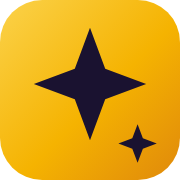
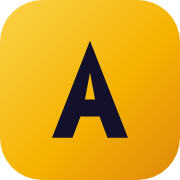
Serious monogram mark, and a bigger hero video
The spark read as "AI product" rather than a credible business. Replace it
with an outlined "A" monogram across all five pages — a hairline gold rule
on dark reads as a firm where a solid gold tile reads as an app icon. The
favicon and touch icon use a filled variant, since a 1.7px border vanishes
at 16px; verified legible down to 16px.

Hero video was 472x266 while the hero stayed capped at 1120px, leaving the
right third of a 1440px fold empty. It is now 593x333 (+57% area) at 1360px
and up, and 501x282 at 1200-1359.

The width comes from letting the hero alone run wider, not from the headline
column. Taking it from the headline — the obvious first approach — added a
line and pushed "Book my seat" below the fold at 1280x720. Anything under
1200px is unchanged.

Changed region(s): [[0.1944, 0.1667, 0.8611, 0.9167], [0.4722, 0.4167, 0.5278, 0.5556]]

diff --git a/index.html b/index.html
@@ -90,9 +90,14 @@ img{max-width:100%;display:block}
 .top{position:sticky;top:0;z-index:50;background:rgba(12,10,34,.82);backdrop-filter:blur(12px);border-bottom:1px solid var(--border)}
 .top__in{max-width:1120px;margin:0 auto;padding:13px 22px;display:flex;align-items:center;justify-content:space-between;gap:14px}
 .brand{display:inline-flex;align-items:center;gap:10px;text-decoration:none;color:#fff}
-.brand__mark{width:31px;height:31px;border-radius:9px;background:var(--grad);flex:none;
-  display:grid;place-items:center;box-shadow:0 7px 18px -7px rgba(245,179,1,.85)}
-.brand__mark svg{width:17px;height:17px;display:block}
+/* Outlined monogram: a hairline gold rule on dark reads as a firm; a solid
+   gold tile reads as an app icon. The favicon uses a filled variant because a
+   1px border disappears at 16px. */
+.brand__mark{width:31px;height:31px;border-radius:9px;flex:none;transition:.2s;
+  border:1.7px solid rgba(245,179,1,.72);background:rgba(245,179,1,.08);
+  display:grid;place-items:center;font-family:'Plus Jakarta Sans',sans-serif;
+  font-weight:800;font-size:16px;line-height:1;padding-bottom:1px;
+  background-clip:padding-box;color:var(--gold-2)}
 .brand__txt{font-family:'Plus Jakarta Sans',sans-serif;font-weight:800;font-size:15.5px;
   letter-spacing:-.015em;white-space:nowrap;line-height:1.1;color:#fff}
 .brand__txt b{background:var(--grad);-webkit-background-clip:text;background-clip:text;
@@ -118,7 +123,18 @@ img{max-width:100%;display:block}
 .hero::after{content:"";position:absolute;inset:0;background:linear-gradient(90deg,rgba(12,10,34,.95) 0%,rgba(12,10,34,.80) 42%,rgba(12,10,34,.5) 100%);z-index:1;pointer-events:none}
 .hero .wrap{position:relative;z-index:2}
 .hero .blob{z-index:0}
+/* The video is the proof asset, so give it the larger column and let the hero
+   (and only the hero) run wider than the 1120px body grid on big screens —
+   otherwise a 1440px monitor leaves the right third of the fold empty. */
 .hero__grid{display:grid;grid-template-columns:1.05fr .95fr;gap:48px;align-items:center;position:relative;z-index:2}
+/* Only take width from the headline column where there is genuinely room —
+   rebalancing at 1280 narrowed the headline, added a line, and pushed the CTA
+   below the fold. Below 1360 we widen the wrap only. */
+@media(min-width:1200px){.hero .wrap{max-width:1180px}}
+@media(min-width:1360px){
+  .hero .wrap{max-width:1260px}
+  .hero__grid{grid-template-columns:1fr 1.08fr;gap:44px}
+}
 @media(max-width:900px){.hero__grid{grid-template-columns:1fr;gap:36px}}
 .hero__badge{display:inline-flex;align-items:center;gap:9px;background:rgba(255,255,255,.06);border:1px solid rgba(245,179,1,.35);border-radius:999px;padding:8px 16px;font-size:13px;font-weight:700;color:#fff;box-shadow:var(--shadow)}
 .hero__badge b{color:var(--gold-2)}
@@ -611,7 +627,7 @@ svg.ic{width:14px;height:14px;fill:var(--gold-2);vertical-align:-2px}
 <noscript><iframe src="https://www.googletagmanager.com/ns.html?id=GTM-WGPBKZVL" height="0" width="0" style="display:none;visibility:hidden"></iframe></noscript>
 
 <div class="top"><div class="top__in">
-  <a class="brand" href="/" aria-label="The AI Affiliate Machine — home"><span class="brand__mark"><svg viewBox="0 0 24 24" fill="none" aria-hidden="true"><path d="M12 2.6l2.3 6.2 6.2 2.3-6.2 2.3L12 19.6l-2.3-6.2L3.5 11.1l6.2-2.3z" fill="#1A1230"/><path d="M19.2 17.2l.8 2.1 2.1.8-2.1.8-.8 2.1-.8-2.1-2.1-.8 2.1-.8z" fill="#1A1230"/></svg></span><span class="brand__txt"><span class="the">The </span>AI Affiliate <b>Machine</b></span></a>
+  <a class="brand" href="/" aria-label="The AI Affiliate Machine — home"><span class="brand__mark" aria-hidden="true">A</span><span class="brand__txt"><span class="the">The </span>AI Affiliate <b>Machine</b></span></a>
   <div class="top__right">
     <span class="top__live"><span class="pulse"></span> Live <span data-cfg="dateShort">Sun 2 Aug</span>, <span data-cfg="time">08:00 PM IST</span></span>
     <a href="#register" class="btn">Grab your seat <span class="btn__arrow">→</span></a>

diff --git a/AF-Thank-You.html b/AF-Thank-You.html
@@ -77,9 +77,14 @@ h1,h2,h3{font-family:'Plus Jakarta Sans',sans-serif;font-weight:800;letter-spaci
 .top__in{max-width:1120px;margin:0 auto;padding:13px 22px;display:flex;
   align-items:center;justify-content:space-between;gap:14px}
 .brand{display:inline-flex;align-items:center;gap:10px;text-decoration:none;color:#fff}
-.brand__mark{width:31px;height:31px;border-radius:9px;background:var(--grad);flex:none;
-  display:grid;place-items:center;box-shadow:0 7px 18px -7px rgba(245,179,1,.85)}
-.brand__mark svg{width:17px;height:17px;display:block}
+/* Outlined monogram: a hairline gold rule on dark reads as a firm; a solid
+   gold tile reads as an app icon. The favicon uses a filled variant because a
+   1px border disappears at 16px. */
+.brand__mark{width:31px;height:31px;border-radius:9px;flex:none;transition:.2s;
+  border:1.7px solid rgba(245,179,1,.72);background:rgba(245,179,1,.08);
+  display:grid;place-items:center;font-family:'Plus Jakarta Sans',sans-serif;
+  font-weight:800;font-size:16px;line-height:1;padding-bottom:1px;
+  background-clip:padding-box;color:var(--gold-2)}
 .brand__txt{font-family:'Plus Jakarta Sans',sans-serif;font-weight:800;font-size:15.5px;
   letter-spacing:-.015em;white-space:nowrap;line-height:1.1;color:#fff}
 .brand__txt b{background:var(--grad);-webkit-background-clip:text;background-clip:text;
@@ -219,7 +224,7 @@ body.barred .footer{padding-bottom:118px}
 <!-- Google Tag Manager (noscript) --><noscript><iframe src="https://www.googletagmanager.com/ns.html?id=GTM-WGPBKZVL" height="0" width="0" style="display:none;visibility:hidden"></iframe></noscript><!-- End Google Tag Manager (noscript) -->
 
 <div class="top"><div class="top__in">
-  <a class="brand" href="/" aria-label="The AI Affiliate Machine — home"><span class="brand__mark"><svg viewBox="0 0 24 24" fill="none" aria-hidden="true"><path d="M12 2.6l2.3 6.2 6.2 2.3-6.2 2.3L12 19.6l-2.3-6.2L3.5 11.1l6.2-2.3z" fill="#1A1230"/><path d="M19.2 17.2l.8 2.1 2.1.8-2.1.8-.8 2.1-.8-2.1-2.1-.8 2.1-.8z" fill="#1A1230"/></svg></span><span class="brand__txt"><span class="the">The </span>AI Affiliate <b>Machine</b></span></a>
+  <a class="brand" href="/" aria-label="The AI Affiliate Machine — home"><span class="brand__mark" aria-hidden="true">A</span><span class="brand__txt"><span class="the">The </span>AI Affiliate <b>Machine</b></span></a>
   <span class="top__badge"><svg class="tick" viewBox="0 0 24 24" fill="none"><path d="M4 12.5l5 5L20 6.5" stroke="#8CF0B4" stroke-width="3" stroke-linecap="round" stroke-linejoin="round"/></svg> Payment received</span>
 </div></div>
 

diff --git a/privacy.html b/privacy.html
@@ -32,9 +32,14 @@ a:hover{color:var(--gold)}
 .top__in{max-width:1120px;margin:0 auto;padding:14px 22px;display:flex;
   align-items:center;justify-content:space-between;gap:14px}
 .brand{display:inline-flex;align-items:center;gap:10px;text-decoration:none;color:#fff}
-.brand__mark{width:31px;height:31px;border-radius:9px;background:var(--grad);flex:none;
-  display:grid;place-items:center;box-shadow:0 7px 18px -7px rgba(245,179,1,.85);transition:.2s}
-.brand__mark svg{width:17px;height:17px;display:block}
+/* Outlined monogram: a hairline gold rule on dark reads as a firm; a solid
+   gold tile reads as an app icon. The favicon uses a filled variant because a
+   1px border disappears at 16px. */
+.brand__mark{width:31px;height:31px;border-radius:9px;flex:none;transition:.2s;
+  border:1.7px solid rgba(245,179,1,.72);background:rgba(245,179,1,.08);
+  display:grid;place-items:center;font-family:'Plus Jakarta Sans',sans-serif;
+  font-weight:800;font-size:16px;line-height:1;padding-bottom:1px;
+  background-clip:padding-box;color:var(--gold-2)}
 .brand:hover .brand__mark{transform:translateY(-1px)}
 .brand__txt{font-family:'Plus Jakarta Sans',sans-serif;font-weight:800;font-size:15.5px;
   letter-spacing:-.015em;white-space:nowrap;line-height:1.1;color:#fff}
@@ -102,7 +107,7 @@ b,strong{color:#fff;font-weight:700}
 <body>
 
 <div class="top"><div class="top__in">
-  <a class="brand" href="/" aria-label="The AI Affiliate Machine — home"><span class="brand__mark"><svg viewBox="0 0 24 24" fill="none" aria-hidden="true"><path d="M12 2.6l2.3 6.2 6.2 2.3-6.2 2.3L12 19.6l-2.3-6.2L3.5 11.1l6.2-2.3z" fill="#1A1230"/><path d="M19.2 17.2l.8 2.1 2.1.8-2.1.8-.8 2.1-.8-2.1-2.1-.8 2.1-.8z" fill="#1A1230"/></svg></span><span class="brand__txt"><span class="the">The </span>AI Affiliate <b>Machine</b></span></a>
+  <a class="brand" href="/" aria-label="The AI Affiliate Machine — home"><span class="brand__mark" aria-hidden="true">A</span><span class="brand__txt"><span class="the">The </span>AI Affiliate <b>Machine</b></span></a>
   <a class="btn" href="/"><span class="full">Back to the masterclass</span><span class="short">Masterclass</span></a>
 </div></div>
 

diff --git a/refund.html b/refund.html
@@ -32,9 +32,14 @@ a:hover{color:var(--gold)}
 .top__in{max-width:1120px;margin:0 auto;padding:14px 22px;display:flex;
   align-items:center;justify-content:space-between;gap:14px}
 .brand{display:inline-flex;align-items:center;gap:10px;text-decoration:none;color:#fff}
-.brand__mark{width:31px;height:31px;border-radius:9px;background:var(--grad);flex:none;
-  display:grid;place-items:center;box-shadow:0 7px 18px -7px rgba(245,179,1,.85);transition:.2s}
-.brand__mark svg{width:17px;height:17px;display:block}
+/* Outlined monogram: a hairline gold rule on dark reads as a firm; a solid
+   gold tile reads as an app icon. The favicon uses a filled variant because a
+   1px border disappears at 16px. */
+.brand__mark{width:31px;height:31px;border-radius:9px;flex:none;transition:.2s;
+  border:1.7px solid rgba(245,179,1,.72);background:rgba(245,179,1,.08);
+  display:grid;place-items:center;font-family:'Plus Jakarta Sans',sans-serif;
+  font-weight:800;font-size:16px;line-height:1;padding-bottom:1px;
+  background-clip:padding-box;color:var(--gold-2)}
 .brand:hover .brand__mark{transform:translateY(-1px)}
 .brand__txt{font-family:'Plus Jakarta Sans',sans-serif;font-weight:800;font-size:15.5px;
   letter-spacing:-.015em;white-space:nowrap;line-height:1.1;color:#fff}
@@ -102,7 +107,7 @@ b,strong{color:#fff;font-weight:700}
 <body>
 
 <div class="top"><div class="top__in">
-  <a class="brand" href="/" aria-label="The AI Affiliate Machine — home"><span class="brand__mark"><svg viewBox="0 0 24 24" fill="none" aria-hidden="true"><path d="M12 2.6l2.3 6.2 6.2 2.3-6.2 2.3L12 19.6l-2.3-6.2L3.5 11.1l6.2-2.3z" fill="#1A1230"/><path d="M19.2 17.2l.8 2.1 2.1.8-2.1.8-.8 2.1-.8-2.1-2.1-.8 2.1-.8z" fill="#1A1230"/></svg></span><span class="brand__txt"><span class="the">The </span>AI Affiliate <b>Machine</b></span></a>
+  <a class="brand" href="/" aria-label="The AI Affiliate Machine — home"><span class="brand__mark" aria-hidden="true">A</span><span class="brand__txt"><span class="the">The </span>AI Affiliate <b>Machine</b></span></a>
   <a class="btn" href="/"><span class="full">Back to the masterclass</span><span class="short">Masterclass</span></a>
 </div></div>
 

diff --git a/terms.html b/terms.html
@@ -32,9 +32,14 @@ a:hover{color:var(--gold)}
 .top__in{max-width:1120px;margin:0 auto;padding:14px 22px;display:flex;
   align-items:center;justify-content:space-between;gap:14px}
 .brand{display:inline-flex;align-items:center;gap:10px;text-decoration:none;color:#fff}
-.brand__mark{width:31px;height:31px;border-radius:9px;background:var(--grad);flex:none;
-  display:grid;place-items:center;box-shadow:0 7px 18px -7px rgba(245,179,1,.85);transition:.2s}
-.brand__mark svg{width:17px;height:17px;display:block}
+/* Outlined monogram: a hairline gold rule on dark reads as a firm; a solid
+   gold tile reads as an app icon. The favicon uses a filled variant because a
+   1px border disappears at 16px. */
+.brand__mark{width:31px;height:31px;border-radius:9px;flex:none;transition:.2s;
+  border:1.7px solid rgba(245,179,1,.72);background:rgba(245,179,1,.08);
+  display:grid;place-items:center;font-family:'Plus Jakarta Sans',sans-serif;
+  font-weight:800;font-size:16px;line-height:1;padding-bottom:1px;
+  background-clip:padding-box;color:var(--gold-2)}
 .brand:hover .brand__mark{transform:translateY(-1px)}
 .brand__txt{font-family:'Plus Jakarta Sans',sans-serif;font-weight:800;font-size:15.5px;
   letter-spacing:-.015em;white-space:nowrap;line-height:1.1;color:#fff}
@@ -102,7 +107,7 @@ b,strong{color:#fff;font-weight:700}
 <body>
 
 <div class="top"><div class="top__in">
-  <a class="brand" href="/" aria-label="The AI Affiliate Machine — home"><span class="brand__mark"><svg viewBox="0 0 24 24" fill="none" aria-hidden="true"><path d="M12 2.6l2.3 6.2 6.2 2.3-6.2 2.3L12 19.6l-2.3-6.2L3.5 11.1l6.2-2.3z" fill="#1A1230"/><path d="M19.2 17.2l.8 2.1 2.1.8-2.1.8-.8 2.1-.8-2.1-2.1-.8 2.1-.8z" fill="#1A1230"/></svg></span><span class="brand__txt"><span class="the">The </span>AI Affiliate <b>Machine</b></span></a>
+  <a class="brand" href="/" aria-label="The AI Affiliate Machine — home"><span class="brand__mark" aria-hidden="true">A</span><span class="brand__txt"><span class="the">The </span>AI Affiliate <b>Machine</b></span></a>
   <a class="btn" href="/"><span class="full">Back to the masterclass</span><span class="short">Masterclass</span></a>
 </div></div>
 
